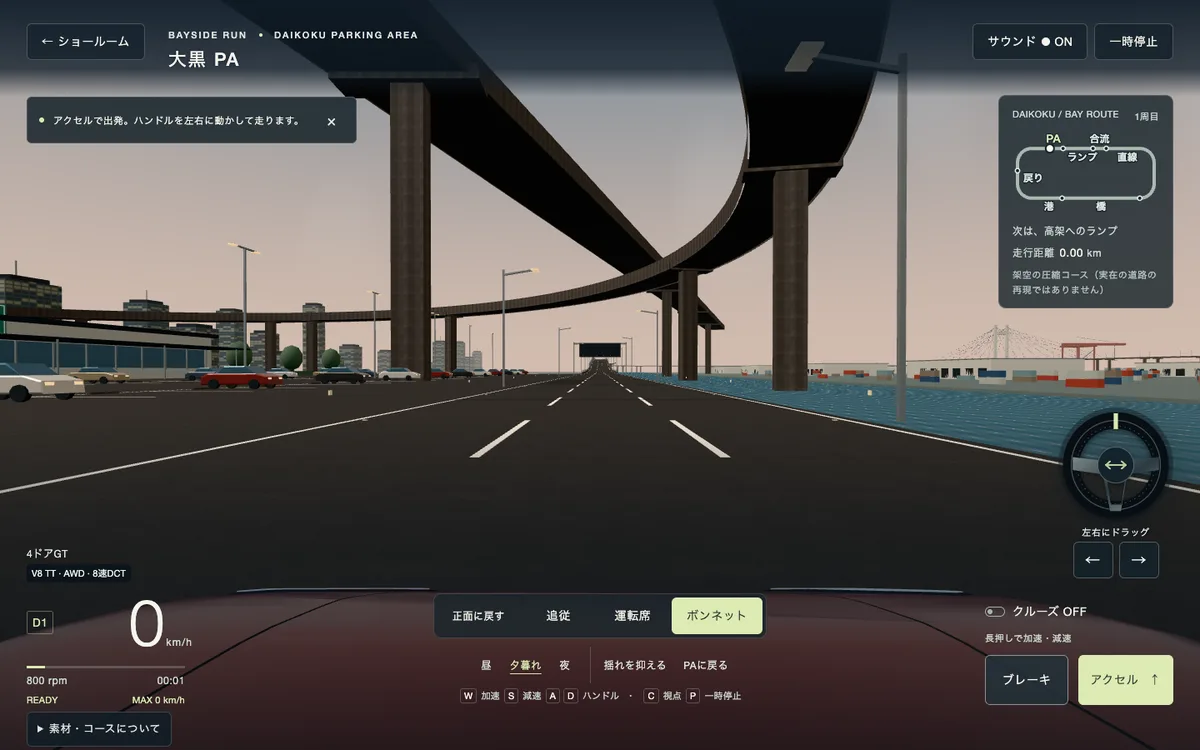
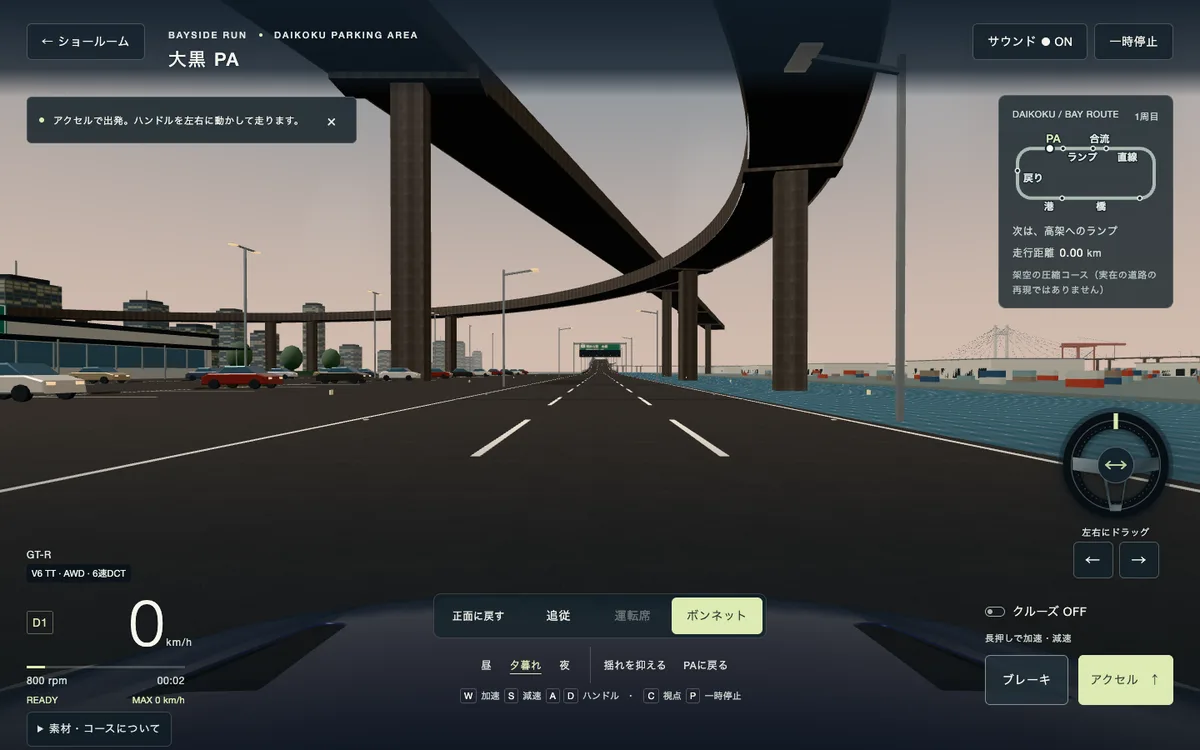
Day083 カー360 のカードを、車の入れ替え後の中身に直す（オリジナルの車を外し、日産 GT-R を足した）
公開版（car-360 PR #9）で、オリジナルの4ドアGTとマクラーレン 570S（作者が NoAI の表示）を外し、日産 GT-R（R35）を足して既定の車にする。カードの説明・画像を合わせる。

- meta.json：説明から「オリジナルの車」「3台」を外し、近い録音が無い車種は合成音で鳴ることを足した。AI担当・本人担当・失敗談に、NoAI の確認と判断、塗装とボンネット視点の直しを足した。クルーズ中の変速の失敗談は、当時載せていたオリジナルの車での値と分かる書き方にした。
- README.md：車の説明を実態に合わせた。
- screenshot.webp：新しい既定の車（GT-R）の走行画面（1440×900 を 1200×750 に縮小・メタデータなし・ロゴやパスの写り込みなし）。

検証：npm run precheck（漏洩なし）・check:syntax・scripts/tests 194件・npm run build が成功。

diff --git a/day-083-car360/README.md b/day-083-car360/README.md
@@ -5,7 +5,7 @@
 - 公開サイト: https://day83.rairakku.com/
 - `rairakku.com` の中の住所: https://rairakku.com/day83/（`day83.rairakku.com` へ転送します）
 
-車は、コードで作ったオリジナル（架空）と、実在の車種の3Dモデルから選べます。実在の車種のモデルは、メーカーとは関係のない第三者が作り、Sketchfab で CC BY 4.0 として公開しているものを、作者の表示つきで使っています。ロゴ・エンブレム・ナンバーなどの部品は取り除きました。メーカーの公認や協力は受けていません。車名・商標・意匠は各社に帰属し、CC BY は商標や意匠の許諾ではありません。エンジン音は、実際のエンジンの録音（CC0）を回転数に合わせて重ねたものです。車種そのものの録音ではありません。コースは架空で、実際の道路の再現ではありません。
+車は、実在の車種の3Dモデルから選べます。実在の車種のモデルは、メーカーとは関係のない第三者が作り、Sketchfab で CC BY 4.0 として公開しているものを、作者の表示つきで使っています。ロゴ・エンブレム・ナンバーなどの部品は取り除きました。メーカーの公認や協力は受けていません。車名・商標・意匠は各社に帰属し、CC BY は商標や意匠の許諾ではありません。エンジン音は、実際のエンジンの録音（CC0）を回転数に合わせて重ねたものです。車種そのものの録音ではなく、近い録音が無い車種は合成した音だけで鳴ります。コースは架空で、実際の道路の再現ではありません。
 
 ## このDayの記録
 
